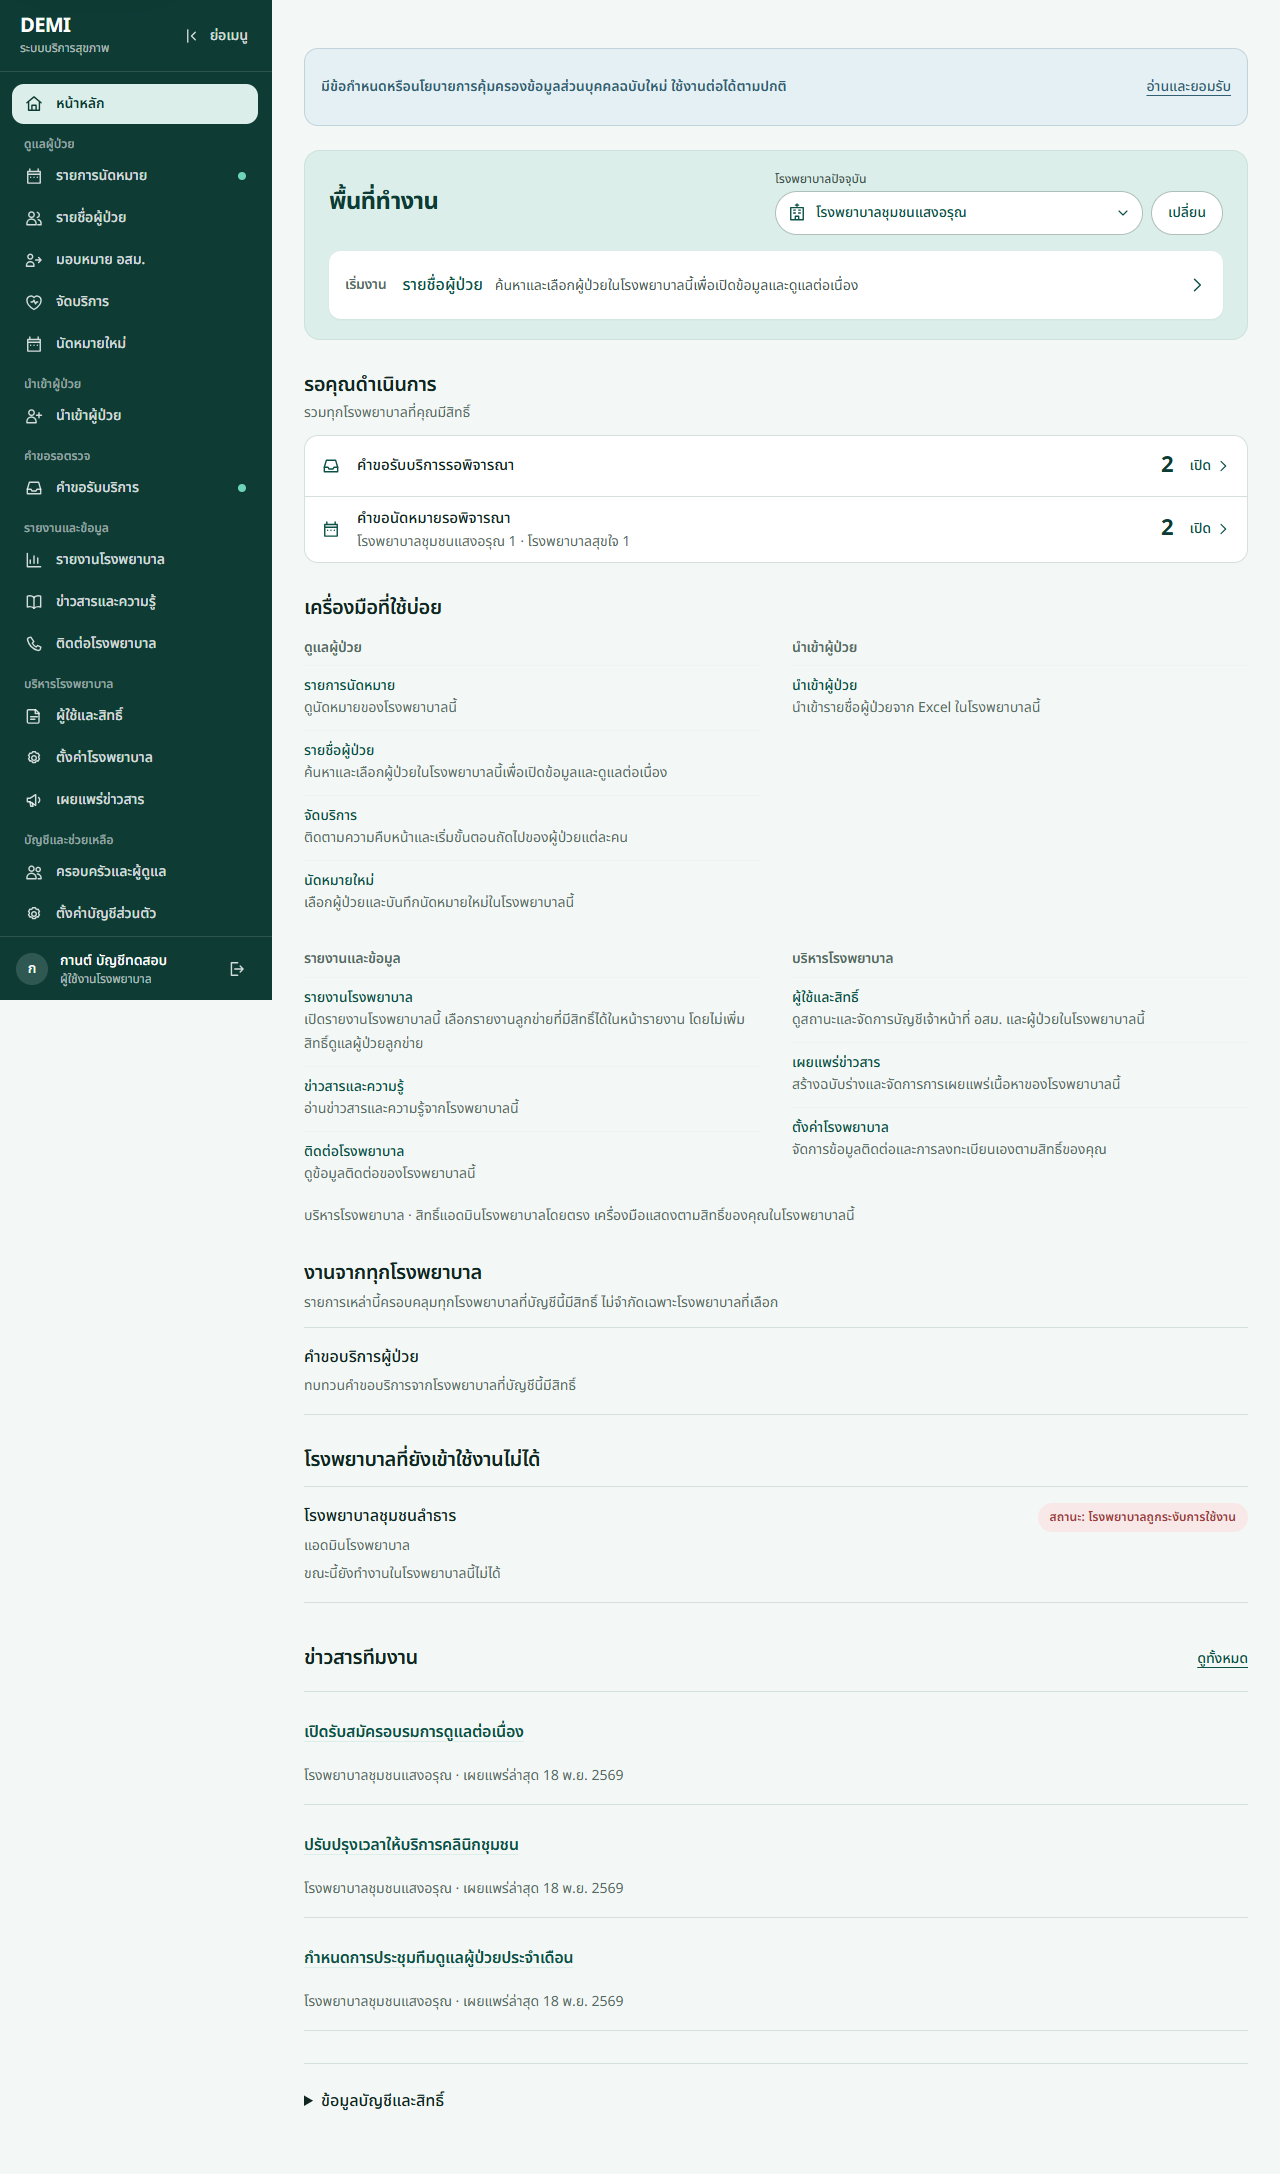
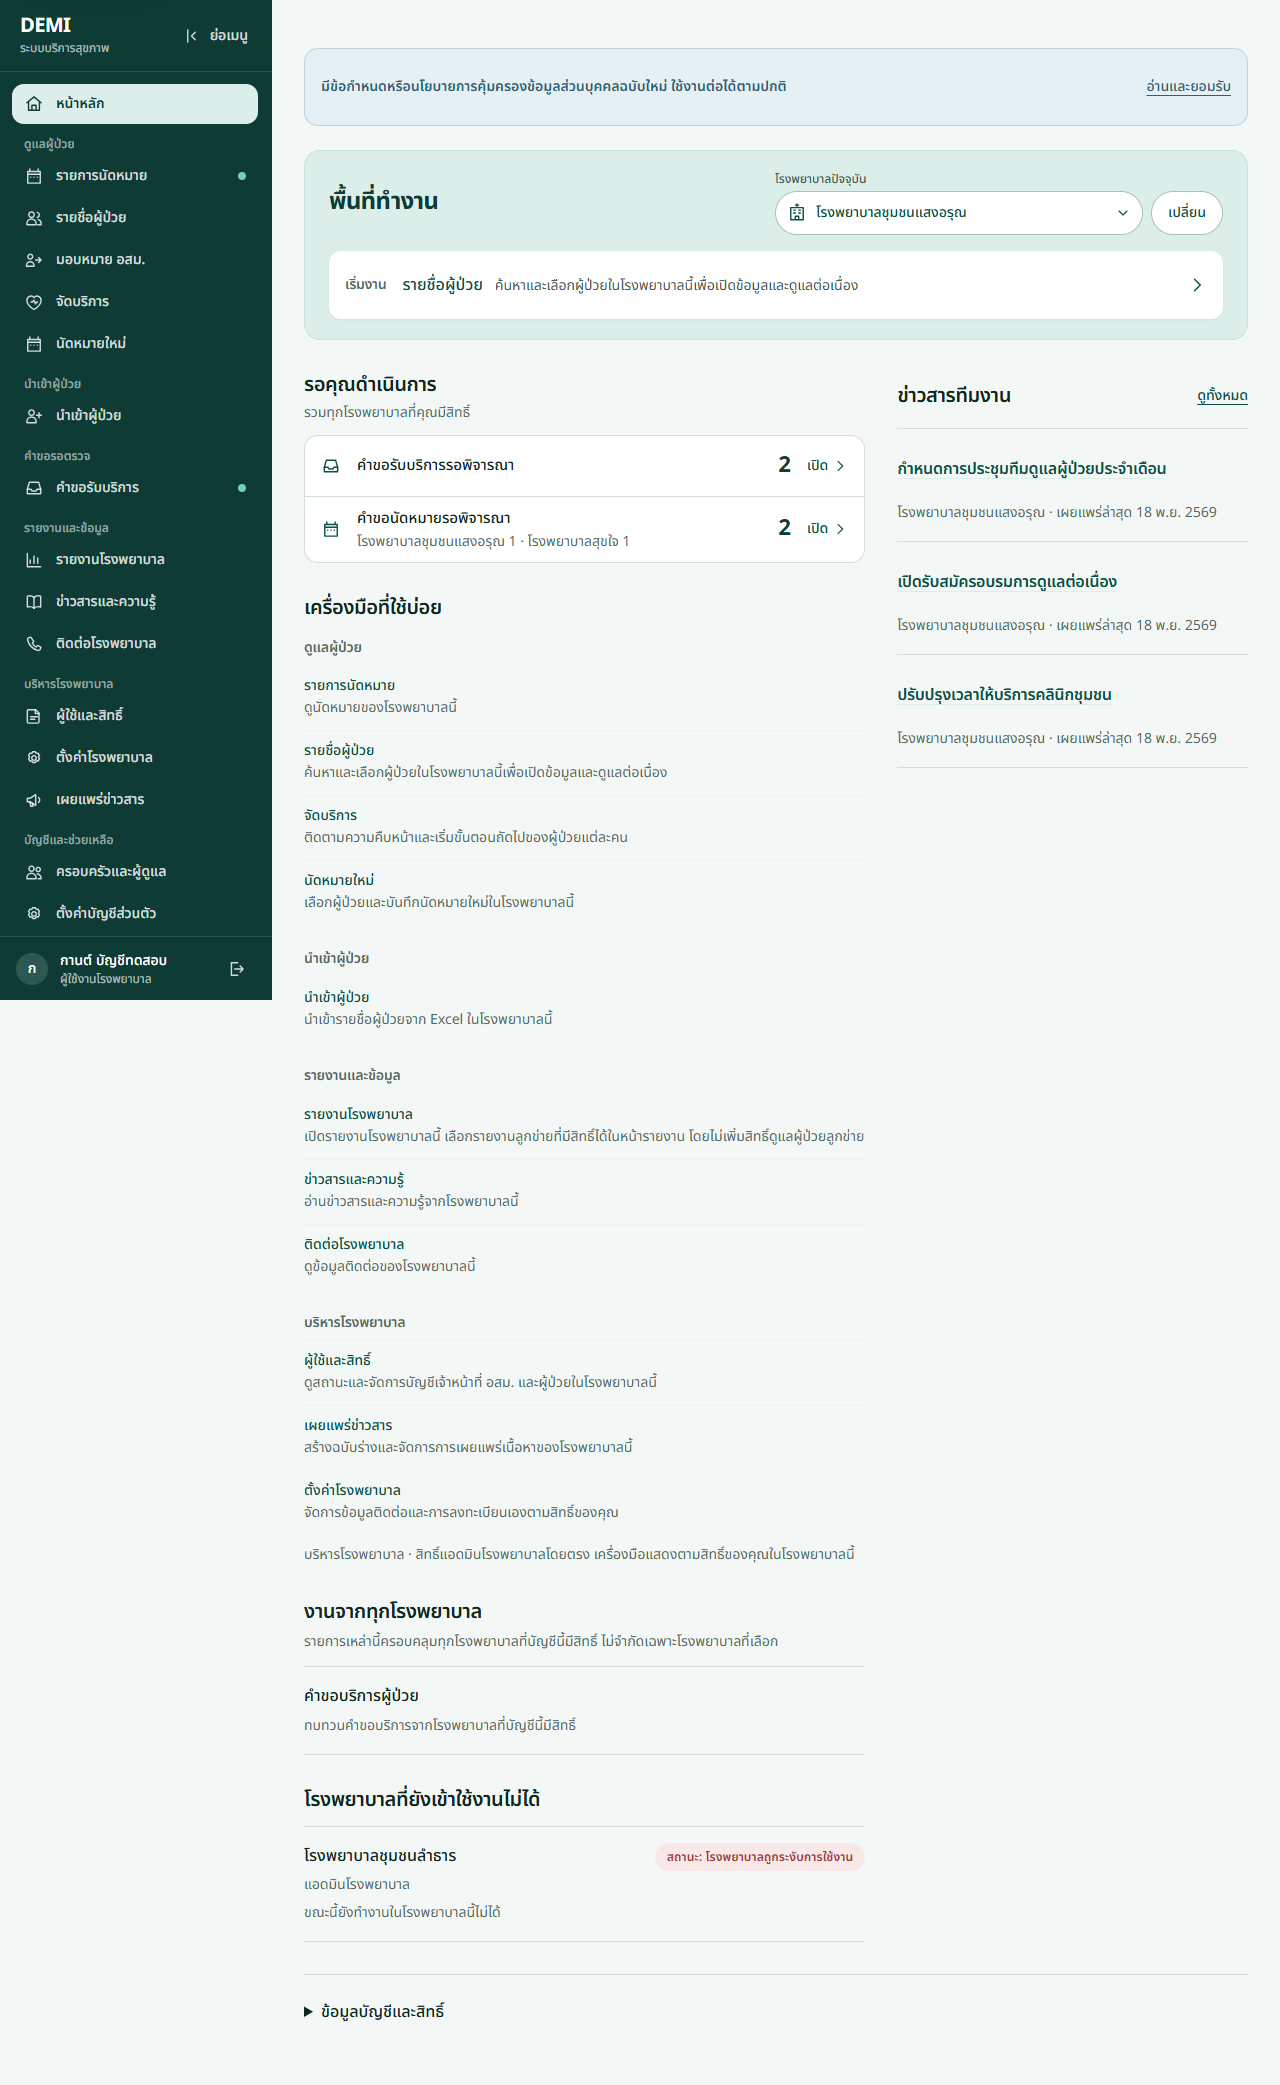
Adjust desktop Work Home container breakpoints

diff --git a/app/app/page.tsx b/app/app/page.tsx
@@ -240,8 +240,8 @@ export default async function ApplicationPage(
 
       <ChildOwnerInvitations invitations={invitations} />
 
-      <div className="lg:mt-8 lg:grid lg:items-start lg:gap-x-8 lg:@5xl/workspace:grid-cols-[minmax(0,1.6fr)_minmax(0,1fr)] lg:@5xl/workspace:grid-rows-[auto_1fr]">
-        <div className="contents lg:block lg:min-w-0">
+      <div className="lg:mt-8 lg:grid lg:items-start lg:gap-x-8 lg:@4xl/workspace:grid-cols-[minmax(0,1.6fr)_minmax(0,1fr)] lg:@4xl/workspace:grid-rows-[auto_1fr]">
+        <div className="contents lg:block lg:min-w-0 lg:@container/home-main">
           <div className="hidden lg:block">
             <WorkHomePendingQueue hospitalNames={hospitalNames} result={pendingActions} />
           </div>
@@ -284,7 +284,7 @@ export default async function ApplicationPage(
         {selectedHospital && teamNews ? (
           <HomeContentSection
             allHref={`/app/hospitals/content?hospitalId=${encodeURIComponent(selectedHospital.hospitalId)}`}
-            className="lg:order-last lg:@5xl/workspace:col-start-2 lg:@5xl/workspace:row-span-2 lg:@5xl/workspace:row-start-1 lg:@5xl/workspace:mt-0"
+            className="lg:order-last lg:@4xl/workspace:col-start-2 lg:@4xl/workspace:row-span-2 lg:@4xl/workspace:row-start-1 lg:@4xl/workspace:mt-0"
             emptyMessage={`ยังไม่มีข่าวสารสำหรับทีมงานจาก${selectedHospital.hospitalName}`}
             heading="ข่าวสารทีมงาน"
             failure={teamNews.status === "FAILED"

diff --git a/app/app/page.test.ts b/app/app/page.test.ts
@@ -171,6 +171,12 @@ describe("application home workspace routing", () => {
     expect(getPendingActions).toHaveBeenCalledExactlyOnceWith(actor.userId);
     expect(html).toContain('<div class="hidden lg:block"><section aria-labelledby="work-home-pending-heading"');
     expect(html).toContain('<div class="mt-8 hidden lg:block"><section aria-labelledby="work-home-tools-heading"');
+    expect(html).toContain('class="contents lg:block lg:min-w-0 lg:@container/home-main"');
+    const tools = section(html, "work-home-tools-heading");
+    expect(tools).toContain("@2xl/home-main:grid-cols-2");
+    expect(tools).not.toMatch(/\/workspace:grid-cols-|grid-cols-3/);
+    expect(html).toContain("lg:@4xl/workspace:grid-cols-[minmax(0,1.6fr)_minmax(0,1fr)]");
+    expect(section(html, "work-home-news-heading")).toContain("lg:@4xl/workspace:col-start-2");
     expect(html).toContain('<div class="lg:hidden"><section aria-labelledby="work-home-menu-heading"');
     expect(section(html, "work-home-pending-heading")).toContain('href="/app/patients/service-requests?group=PENDING"');
     expect(section(html, "work-home-heading")).not.toContain("รายการ</span>");

diff --git a/src/components/home/work-home-tool-groups.tsx b/src/components/home/work-home-tool-groups.tsx
@@ -12,7 +12,7 @@ export function WorkHomeToolGroups({
       <h2 className="text-xl font-semibold tracking-[-0.02em] text-text" id="work-home-tools-heading">
         เครื่องมือที่ใช้บ่อย
       </h2>
-      <div className="mt-4 grid gap-x-8 gap-y-6 @3xl/workspace:grid-cols-2 @6xl/workspace:grid-cols-3">
+      <div className="mt-4 grid gap-x-8 gap-y-6 @2xl/home-main:grid-cols-2">
         {groups.map(({ id, label, tools }) => (
           <div className="min-w-0" key={id}>
             <h3 className="text-sm font-semibold text-text-muted">{label}</h3>
